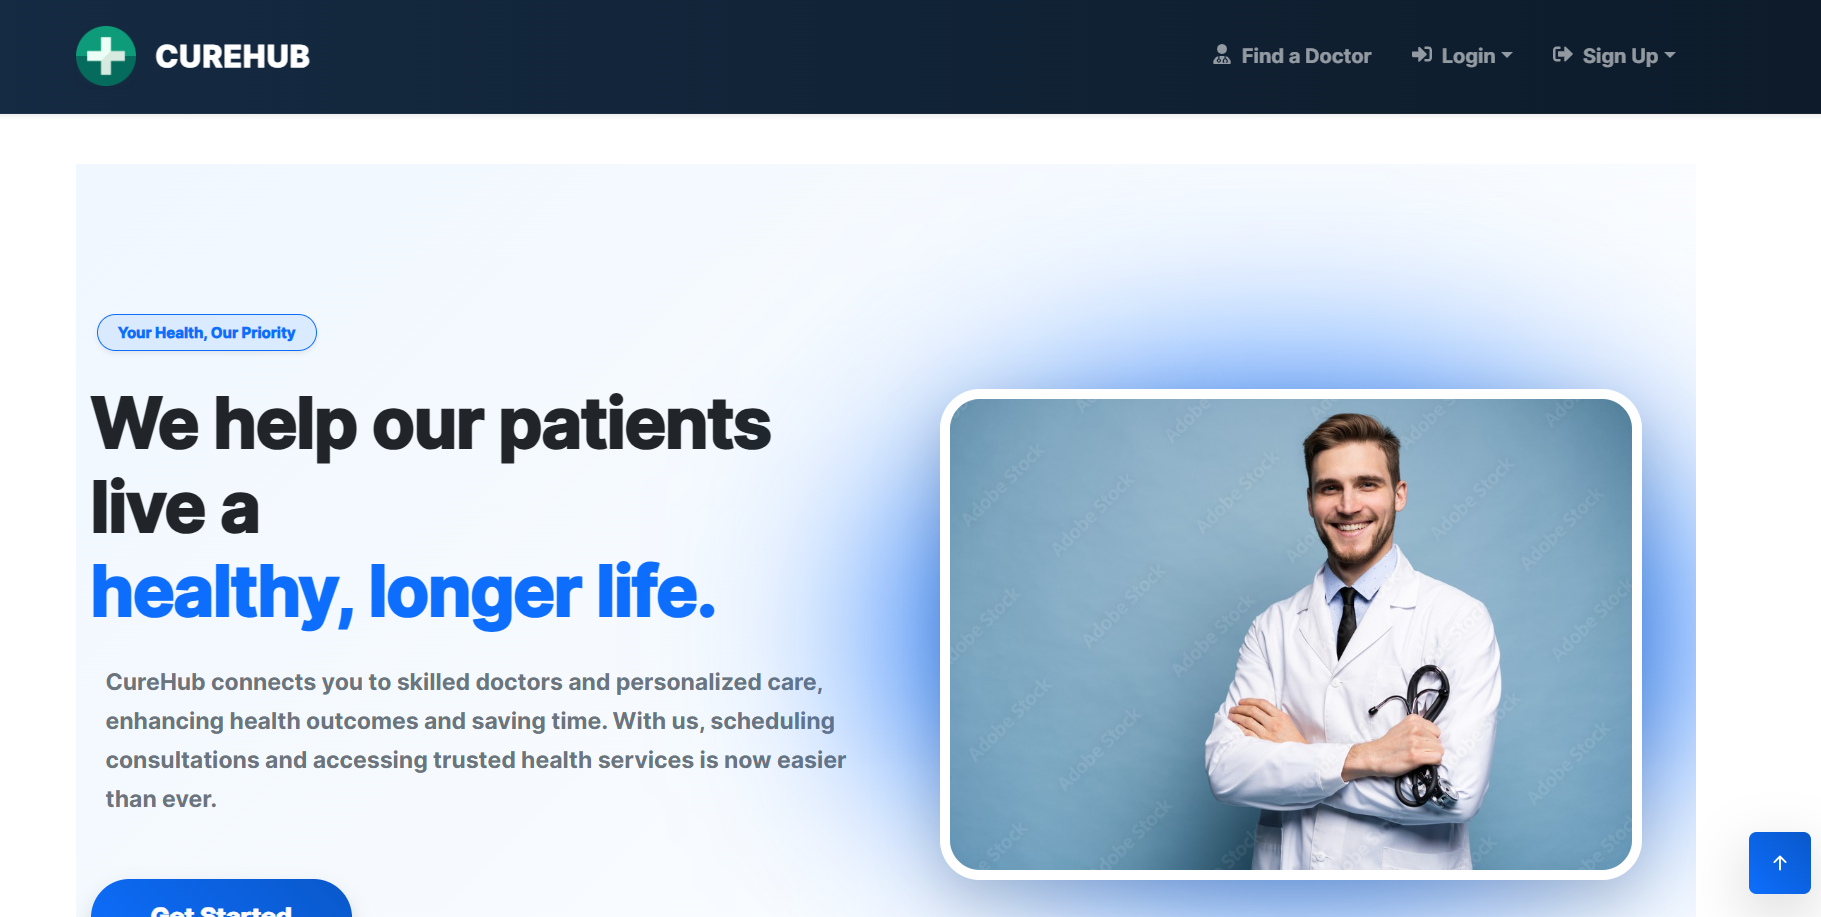
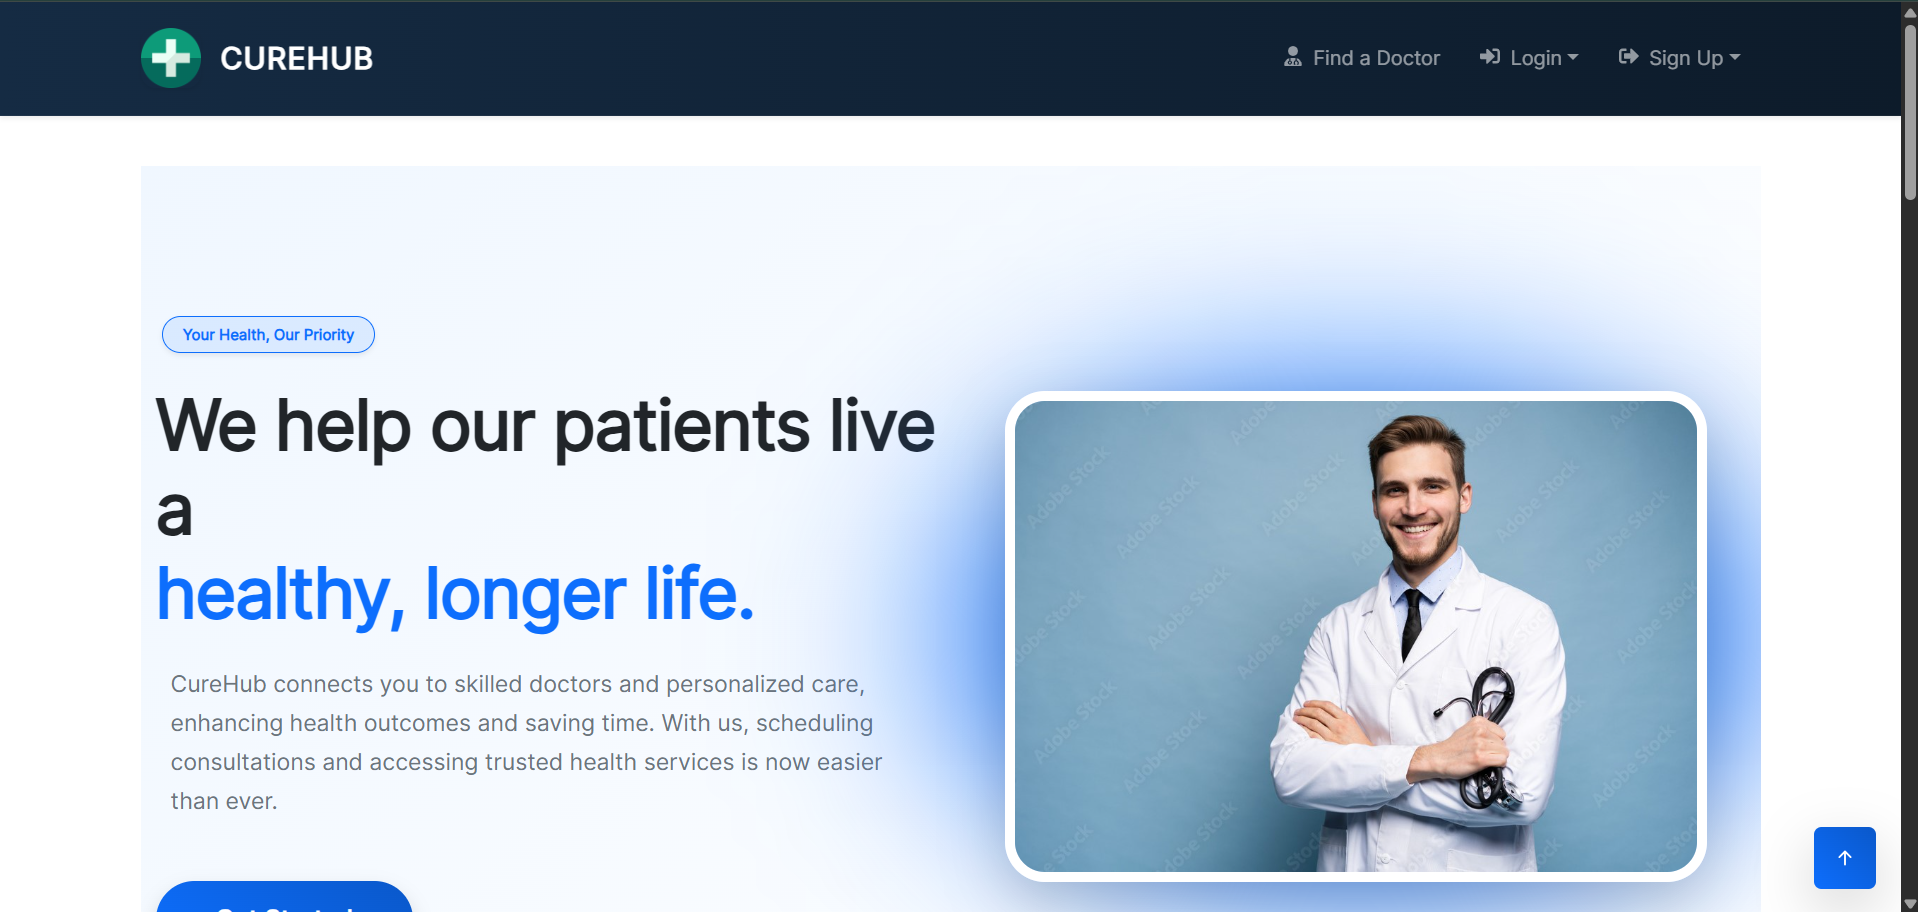
feat: add minor projects section and phone number to contact

diff --git a/src/components/sections/Projects.tsx b/src/components/sections/Projects.tsx
@@ -1,6 +1,6 @@
 import { motion } from 'framer-motion';
-import { projectsData } from '../../data/projects';
-import { FiGithub, FiExternalLink } from 'react-icons/fi';
+import { projectsData, minorProjectsData } from '../../data/projects';
+import { FiGithub, FiExternalLink, FiFolder } from 'react-icons/fi';
 
 export const Projects = () => {
   return (
@@ -89,6 +89,52 @@ export const Projects = () => {
                 </div>
               </motion.div>
             ))}
+          </div>
+          
+          <div className="mt-24">
+            <h3 className="text-2xl md:text-3xl font-bold mb-8 flex items-center gap-4">
+              <span className="w-8 h-1 bg-indigo-500 rounded-full"></span>
+              Other Noteworthy Projects
+            </h3>
+            
+            <div className="grid md:grid-cols-2 lg:grid-cols-3 gap-6">
+              {minorProjectsData.map((project, idx) => (
+                <motion.div 
+                  key={project.id}
+                  initial={{ opacity: 0, y: 20 }}
+                  whileInView={{ opacity: 1, y: 0 }}
+                  viewport={{ once: true }}
+                  transition={{ duration: 0.5, delay: idx * 0.1 }}
+                  className="glass-card p-6 rounded-2xl flex flex-col h-full group"
+                >
+                  <div className="flex justify-between items-start mb-6">
+                    <FiFolder size={32} className="text-indigo-500 group-hover:text-indigo-400 transition-colors" />
+                    <a href={project.githubUrl} target="_blank" rel="noopener noreferrer" className="text-slate-400 hover:text-white transition-colors p-2">
+                      <FiGithub size={20} />
+                    </a>
+                  </div>
+                  
+                  <h4 className="text-xl font-bold text-white mb-2 group-hover:text-indigo-400 transition-colors">
+                    {project.title}
+                  </h4>
+                  
+                  <p className="text-slate-400 text-sm mb-6 flex-grow leading-relaxed">
+                    {project.description}
+                  </p>
+                  
+                  <div className="mt-6 flex flex-wrap gap-2 mt-auto pt-4 border-t border-slate-700/50">
+                    <span className="text-xs font-bold px-2 py-1 bg-indigo-500/10 rounded text-indigo-400 mr-2">
+                      {project.date}
+                    </span>
+                    {project.technologies.map((tech, tIdx) => (
+                      <span key={tIdx} className="text-xs font-mono text-slate-500 px-1 py-1">
+                        {tech}
+                      </span>
+                    ))}
+                  </div>
+                </motion.div>
+              ))}
+            </div>
           </div>
         </motion.div>
       </div>

diff --git a/src/data/projects.ts b/src/data/projects.ts
@@ -13,9 +13,36 @@ export const projectsData = [
       "On-demand PDF prescription generation",
       "Highly reliable platform operations with automated zero-downtime deployments via CI/CD pipeline"
     ],
-    technologies: ["MongoDB", "Express.js", "React.js", "Node.js", "WebSockets", "Razorpay", "Vercel", "NGINX", "AWS EC2"],
+    technologies: ["MongoDB", "Express.js", "React.js", "Node.js", "Socket.io", "RRule", "Redux", "Jspdf", "Chart.js", "Bootstrap", "Axios", "Multer", "Nodemailer", "Zod", "Razorpay", "Vercel", "NGINX", "AWS EC2"],
     liveUrl: "https://cure-hub.vercel.app/",
     githubUrl: "https://github.com/AbhijithS98/Curehub",
     image: "/curehub_screenshot.png"
+  }
+];
+
+export const minorProjectsData = [
+  {
+    id: 1,
+    title: "VisionVibe",
+    date: "May 2024",
+    description: "An e-commerce platform for eyewear featuring secure authentication, product browsing, and a seamless shopping experience.",
+    githubUrl: "https://github.com/AbhijithS98/VisionVibe",
+    technologies: ["HTML", "CSS", "JavaScript", "MongoDB", "Node.js", "EJS", "Express", "Multer", "Nodemailer", "Passport", "Razorpay", "OAuth"]
+  },
+  {
+    id: 2,
+    title: "RecipeMate",
+    date: "Feb 2025",
+    description: "An application that allows users to discover new recipes, view detailed cooking instructions and ingredients, and save their favorite recipes for later.",
+    githubUrl: "https://github.com/AbhijithS98/RecipeMate",
+    technologies: ["HTML", "Vanilla CSS", "JavaScript", "React", "MongoDB", "Node.js", "Express", "Bootstrap", "Axios", "Bcryptjs", "Redux", "OAuth"]
+  },
+  {
+    id: 3,
+    title: "PDF-extractor",
+    date: "Jan 2025",
+    description: "A full-stack web application designed to help users upload, manage, and extract specific pages from PDF documents.",
+    githubUrl: "https://github.com/AbhijithS98/PDF-EXTRACTOR",
+    technologies: ["HTML", "CSS", "JavaScript", "Express", "MongoDB", "Multer", "Nodemailer", "Bootstrap", "Axios", "Redux", "pdf-lib"]
   }
 ];

diff --git a/src/components/sections/Contact.tsx b/src/components/sections/Contact.tsx
@@ -1,7 +1,7 @@
 import { motion } from 'framer-motion';
 import { personalData } from '../../data/personal';
 import { socialsData } from '../../data/socials';
-import { FiMail, FiMapPin, FiGithub, FiLinkedin } from 'react-icons/fi';
+import { FiMail, FiMapPin, FiGithub, FiLinkedin, FiPhone } from 'react-icons/fi';
 
 export const Contact = () => {
   return (
@@ -24,7 +24,7 @@ export const Contact = () => {
             I'm currently looking for new opportunities. Whether you have a question or just want to say hi, I'll try my best to get back to you!
           </p>
           
-          <div className="grid md:grid-cols-2 gap-8 mb-16">
+          <div className="grid md:grid-cols-3 gap-8 mb-16">
             <a href={`mailto:${personalData.email}`} target="_blank" rel="noopener noreferrer" className="glass-card p-8 rounded-2xl flex flex-col items-center gap-4 hover:-translate-y-2 transition-transform duration-300 group">
               <div className="w-16 h-16 bg-slate-800 rounded-full flex items-center justify-center text-indigo-400 group-hover:bg-indigo-600 group-hover:text-white transition-colors">
                 <FiMail size={28} />
@@ -44,6 +44,16 @@ export const Contact = () => {
                 <p className="text-slate-400 group-hover:text-slate-300 transition-colors">{personalData.location}</p>
               </div>
             </div>
+
+            <a href={`tel:${personalData.phone.replace(/\s+/g, '')}`} className="glass-card p-8 rounded-2xl flex flex-col items-center gap-4 hover:-translate-y-2 transition-transform duration-300 group">
+              <div className="w-16 h-16 bg-slate-800 rounded-full flex items-center justify-center text-indigo-400 group-hover:bg-indigo-600 group-hover:text-white transition-colors">
+                <FiPhone size={28} />
+              </div>
+              <div>
+                <h3 className="text-xl font-bold text-white mb-2">Phone</h3>
+                <p className="text-slate-400 group-hover:text-slate-300 transition-colors">{personalData.phone}</p>
+              </div>
+            </a>
           </div>
           
           <div className="flex justify-center gap-8">

diff --git a/src/data/skills.ts b/src/data/skills.ts
@@ -9,11 +9,11 @@ export const skillsData = [
   },
   {
     category: "Architecture & Realtime",
-    skills: ["MVC", "Repository Pattern", "JWT", "SOLID Principles", "Socket.IO", "Redis (Pub/Sub, Streams)"]
+    skills: ["MVC", "Clean architecture", "Repository Pattern", "JWT", "SOLID Principles", "Socket.IO", "Redis (Pub/Sub, Streams)"]
   },
   {
     category: "Cloud, DevOps & Tools",
-    skills: ["AWS (S3, EC2)", "NGINX", "Docker (Basics)", "CI/CD (GitHub Actions)", "Git", "VS Code", "Postman", "Figma", "Winston (Logging)"]
+    skills: ["AWS (S3, EC2)", "NGINX", "Docker (Basics)", "CI/CD (GitHub Actions)", "Git", "VS Code", "Postman", "Figma", "Winston"]
   },
   {
     category: "Core Competencies",